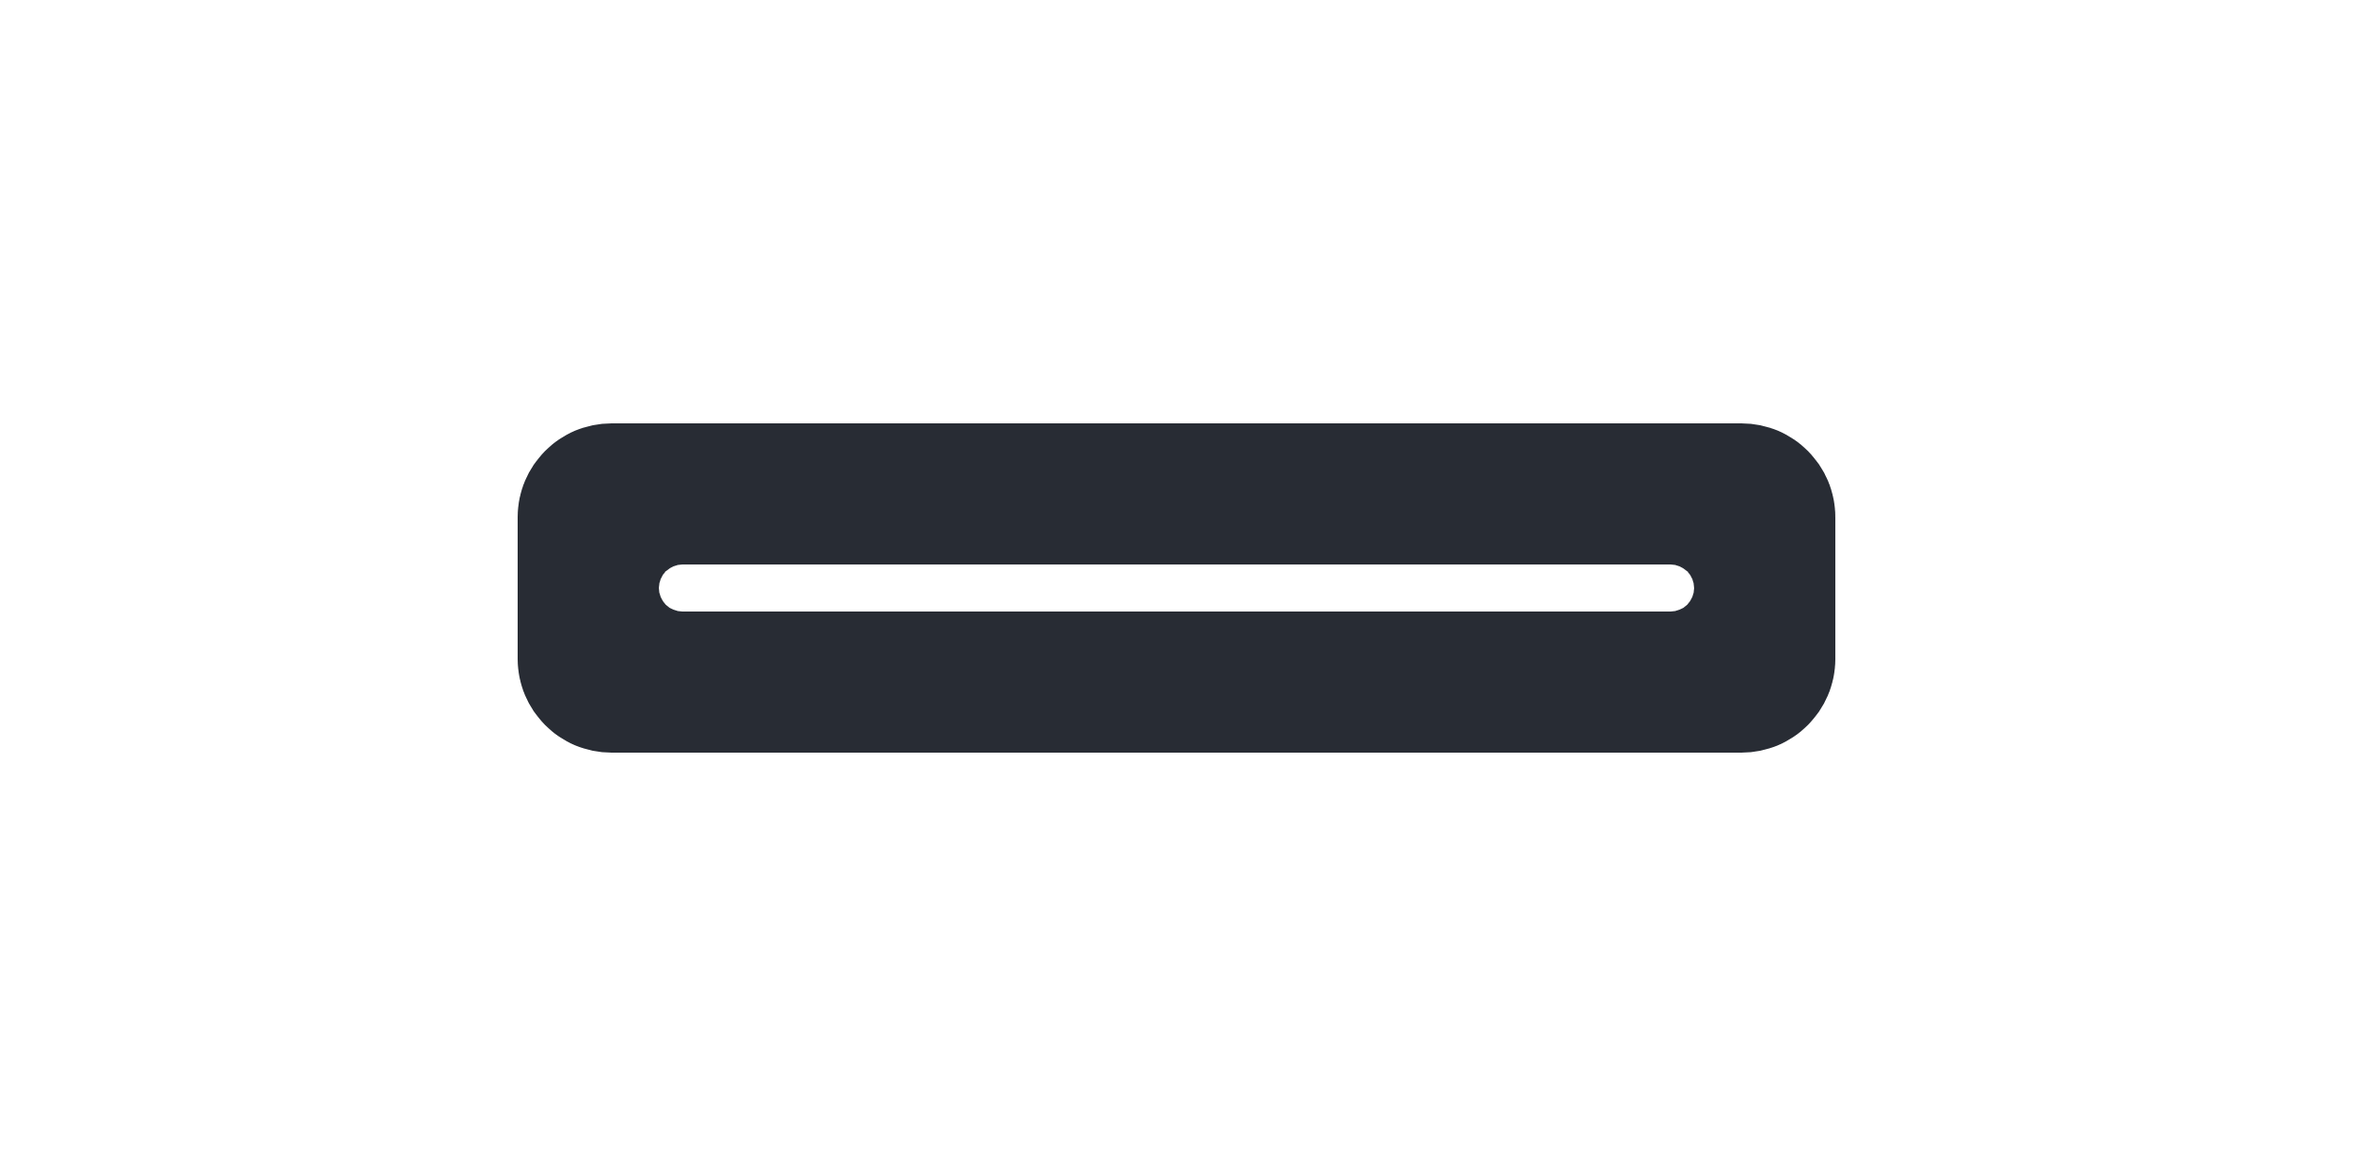
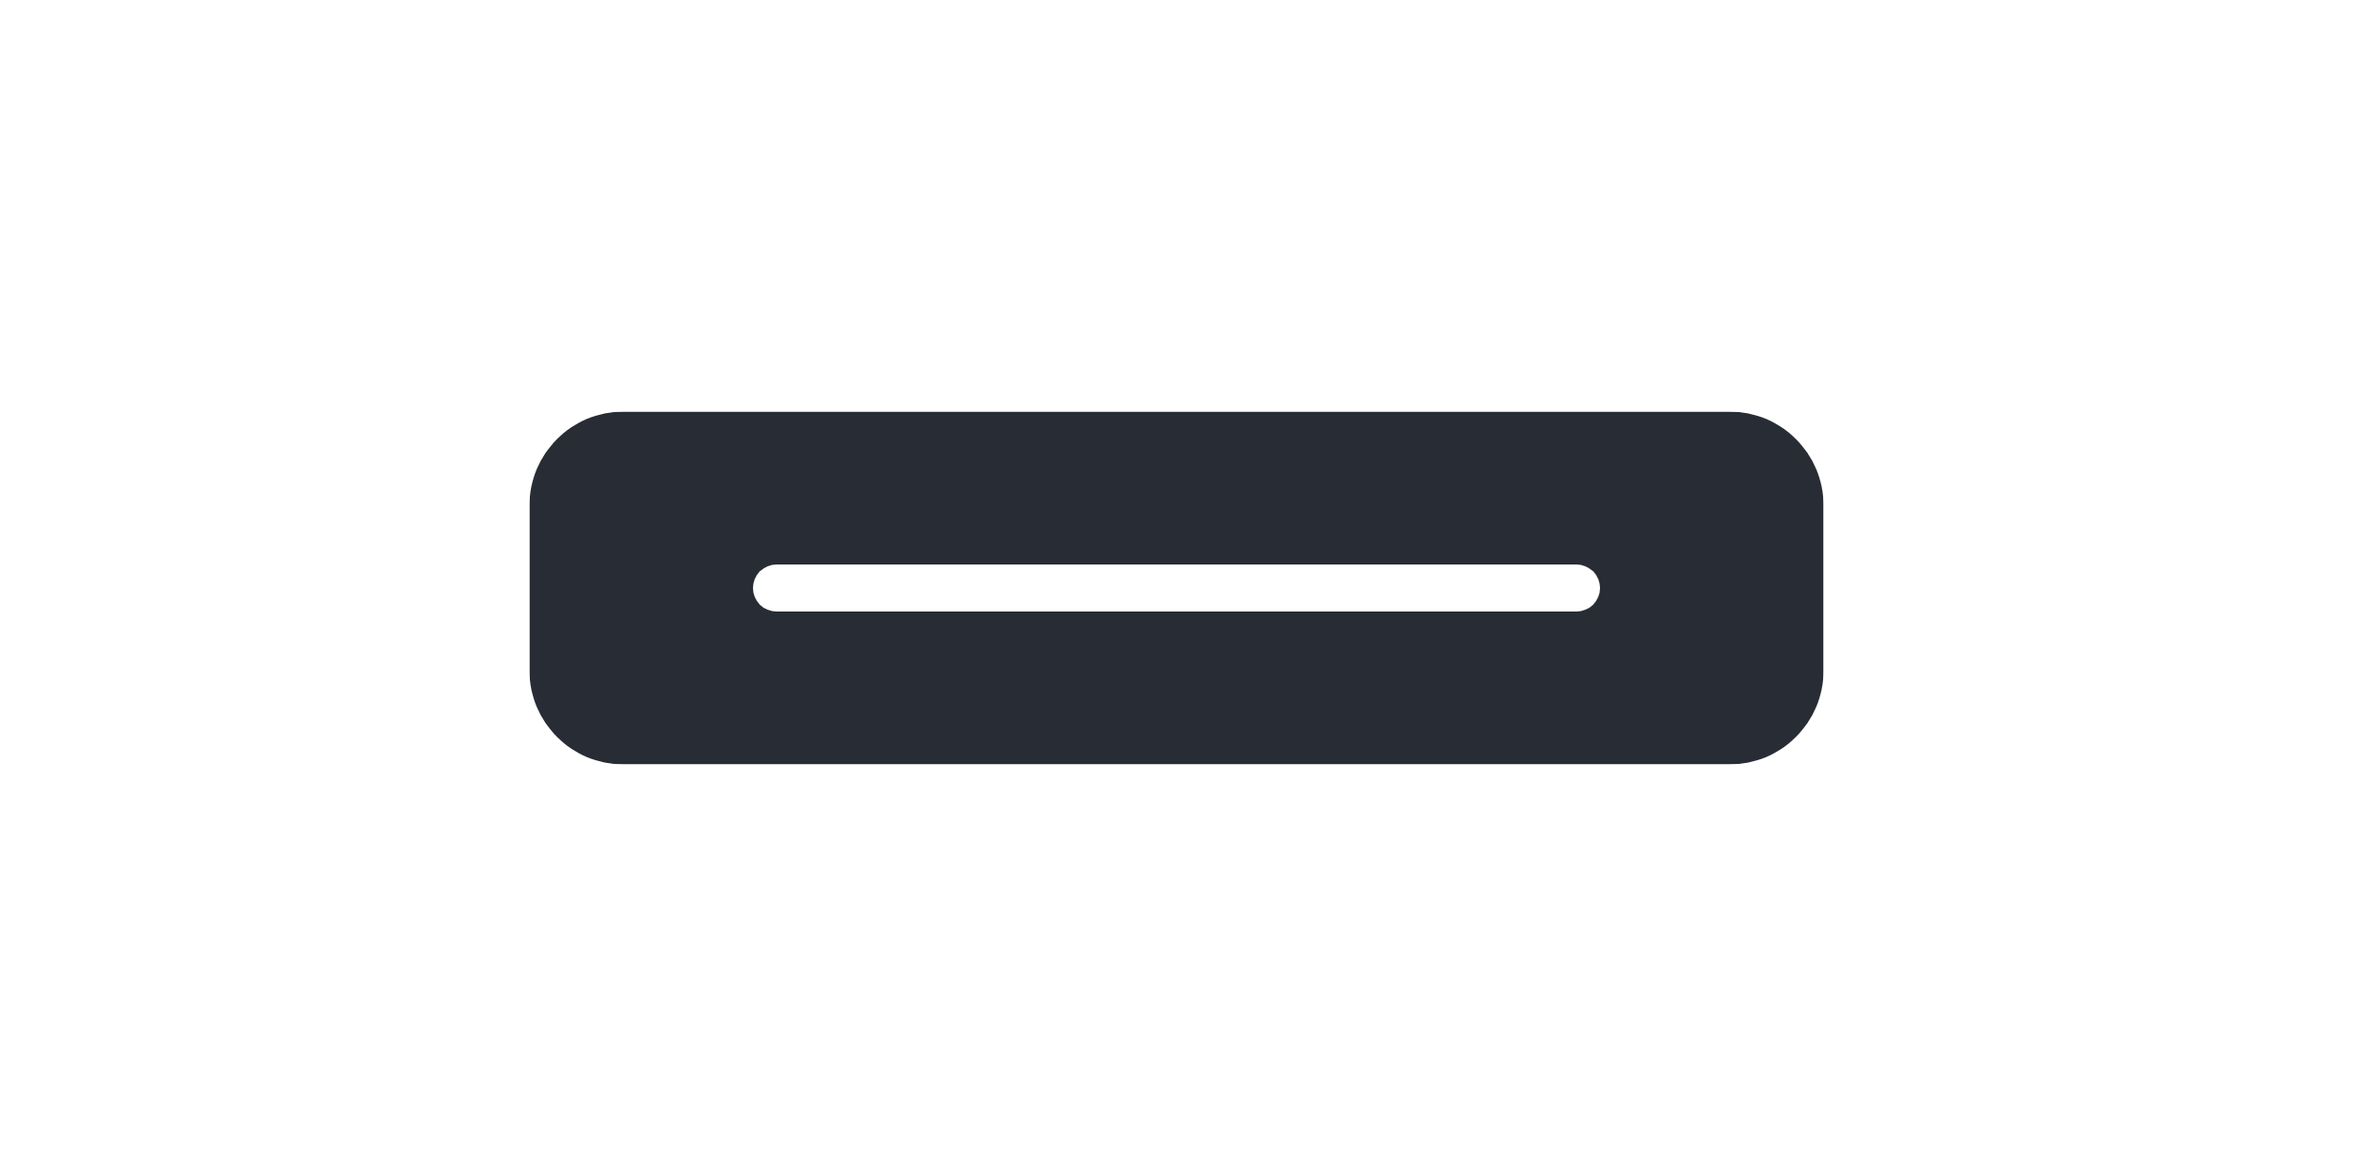
Update Button Docment

diff --git a/src/app/components/button/page.tsx b/src/app/components/button/page.tsx
@@ -4,111 +4,183 @@ import Button from '@/components/Button';
 import Header from '@/components/Header';
 import Card from '@/components/Card';
 import Code from '@/components/Code';
+import Body from '@/components/Body';
+import PreviewAreaH from '@/components/PreviewAreaH';
 
 const ButtonComponents = () => {
-    const [loading, setLoading] = useState(false);
-
-    const handleClick = () => {
-        setLoading(true);
-        setTimeout(() => {
-            setLoading(false);
-        }, 2000);
-    };
+    const [language, setLanguage] = useState<'en' | 'jp'>('en');
 
     return (
-        <div className="w-[80%] mx-auto">
+        <Body>
             <Header />
-            <div className="mb-10 text-center flex flex-col items-center justify-center">
+            <div className="mb-10 text-center flex flex-col items-center">
                 <img src="/chubbs/6.svg" className="w-80" />
                 <h1 className="text-xl font-bold mt-[-50px]">Button</h1>
+                <div className="mt-5">
+                    <button
+                        className={`px-4 py-2 font-bold rounded-l-md ${language === 'en' ? 'bg-[#2da0ff] text-white' : 'bg-gray-100'}`}
+                        onClick={() => setLanguage('en')}
+                    >
+                        English
+                    </button>
+                    <button
+                        className={`px-4 py-2 font-bold rounded-r-md ${language === 'jp' ? 'bg-[#2da0ff] text-white' : 'bg-gray-100'}`}
+                        onClick={() => setLanguage('jp')}
+                    >
+                        日本語
+                    </button>
+                </div>
             </div>
             <div className="space-y-5">
-                {/* Usage Section */}
-                <Card title="Usage">
-                    <p>This is a basic usage example of the Button component.</p>
-                    <Button colorScheme="blue">
-                        Button
-                    </Button>
-                    <Code language='html'>
-{`<Button colorScheme="blue">
-    Button
-</Button>`}
-                    </Code>
-                </Card>
-
-                {/* Loading State Section */}
-                <Card title="Loading State">
-                    <p>This example shows the Button component in a loading state.</p>
-                    <Button colorScheme="blue" onClick={handleClick} loading={loading}>
-                        Load Data
-                    </Button>
-                    <Code language="javascript">
-{`const [loading, setLoading] = useState(false);
-
-const handleClick = () => {
-    setLoading(true);
-    setTimeout(() => {
-        setLoading(false);
-    }, 2000);
-};
-
-// In the JSX:
-<Button colorScheme="blue" onClick={handleClick} loading={loading}>
-    Load Data
-</Button>`}
-                    </Code>
-                </Card>
-
-                {/* Disabled State Section */}
-                <Card title="Disabled State">
-                    <p>This example shows the Button component in a disabled state.</p>
-                    <Button colorScheme="blue" disabled={true}>
-                        Disabled Button
-                    </Button>
-                    <Code language="html">
-{`<Button colorScheme="blue" disabled={true}>
-    Disabled Button
-</Button>`}
-                    </Code>
-                </Card>
-
-                {/* Color Schemes Section */}
-                <Card title="Color Schemes">
-                    <p>This example shows the Button component with different color schemes.</p>
-                    <div className="flex space-x-2.5 w-full overflow-x-auto">
-                        <Button colorScheme="red">Red</Button>
-                        <Button colorScheme="orange">Orange</Button>
-                        <Button colorScheme="yellow">Yellow</Button>
-                        <Button colorScheme="green">Green</Button>
-                        <Button colorScheme="blue">Blue</Button>
-                        <Button colorScheme="purple">Purple</Button>
-                        <Button colorScheme="gray">Gray</Button>
-                    </div>
-                    <Code language="html">
-{`<Button colorScheme="red">Red</Button>
-<Button colorScheme="orange">Orange</Button>
-<Button colorScheme="yellow">Yellow</Button>
-<Button colorScheme="green">Green</Button>
-<Button colorScheme="blue">Blue</Button>
-<Button colorScheme="purple">Purple</Button>
-<Button colorScheme="gray">Gray</Button>`}
-                    </Code>
-                </Card>
-
-                {/* Click Event Section */}
-                <Card title="Click Event">
-                    <p>This example shows the Button component handling click events.</p>
-                    <Button colorScheme="blue" onClick={() => alert('Button Clicked!')}>
-                        Click Me
-                    </Button>
-                    <Code language="html">
-{`<Button colorScheme="blue" onClick={() => alert('Button Clicked!')}>
-    Click Me
-</Button>`}
-                    </Code>
-                </Card>
+                {language === 'en' ? (
+                    <>
+                        <Card title="Overview">
+                            Button is a clickable element that allows users to perform actions component.
+                        </Card>
+                        <Card title="Import">
+                            <Code language='tsx'>{`import { Button } from "css-materials";`}</Code>
+                        </Card>
+                        <Card title="Usage">
+                            <PreviewAreaH>
+                                <Button>Button</Button>
+                            </PreviewAreaH>
+                            <Code language='html'>{`<Button>Button</Button>`}</Code>
+                        </Card>
+                        <Card title="Change Size">
+                            <p>By default, the <code>medium</code> size is applied.</p>
+                            <PreviewAreaH>
+                                <Button size="small">Small</Button>
+                                <Button size="medium">Medium</Button>
+                                <Button size="large">Large</Button>
+                            </PreviewAreaH>
+                            <Code language='html'>
+{`<Button size="small">Small</Button>
+<Button size="medium">Medium</Button>
+<Button size="large">Large</Button>`}
+                            </Code>
+                        </Card>
+                        <Card title="形状を変更する">
+                            <p>デフォルトでは<code>rounded</code>が適用されています。</p>
+                            <PreviewAreaH>
+                                <Button shape="square">四角ボタン</Button>
+                                <Button shape="rounded">角丸ボタン</Button>
+                                <Button shape="circular">円形ボタン</Button>
+                            </PreviewAreaH>
+                            <Code language='html'>
+{`<Button shape="square">四角ボタン</Button>
+<Button shape="rounded">角丸ボタン</Button>
+<Button shape="circular">円形ボタン</Button>`}
+                            </Code>
+                        </Card>
+                        <Card title="カラースキームを変更する">
+                            <p>デフォルトでは<code>blue</code>が適用されています。</p>
+                            <PreviewAreaH>
+                                <Button colorScheme="red">まめだまし</Button>
+                                <Button colorScheme="orange">まめだまし</Button>
+                                <Button colorScheme="yellow">まめだまし</Button>
+                                <Button colorScheme="green">まめだまし</Button>
+                                <Button colorScheme="blue">まめだまし</Button>
+                                <Button colorScheme="purple">まめだまし</Button>
+                                <Button colorScheme="gray">まめだまし</Button>
+                            </PreviewAreaH>
+                            <Code language='html'>
+{`<Button colorScheme="red">まめだまし</Button>
+<Button colorScheme="orange">まめだまし</Button>
+<Button colorScheme="yellow">まめだまし</Button>
+<Button colorScheme="green">まめだまし</Button>
+<Button colorScheme="blue">まめだまし</Button>
+<Button colorScheme="purple">まめだまし</Button>
+<Button colorScheme="gray">まめだまし</Button>`}
+                            </Code>
+                        </Card>
+                        <Card title="状態を変更する">
+                            <p>状態を変更するには<code>disabled</code>と<code>loading</code>のそれぞれを<code>true</code>にします。</p>
+                            <div className="flex border p-2.5 rounded-md space-x-2.5 overflow-x-auto whitespace-nowrap">
+                                <Button disabled>無効</Button>
+                                <Button loading>読み込み</Button>
+                            </div>
+                            <Code language='html'>
+{`<Button disabled>無効</Button>
+<Button loading>読み込み</Button>`}
+                            </Code>
+                        </Card>
+                    </>
+                ) : (
+                    <>
+                        <Card title="概要">
+                            Buttonは、ユーザーがアクションを実行するためのクリック可能な要素コンポーネントです。
+                        </Card>
+                        <Card title="インポート">
+                            <Code language='tsx'>{`import { Button } from "css-materials";`}</Code>
+                        </Card>
+                        <Card title="使い方">
+                            <PreviewAreaH>
+                                <Button>ねこむすび</Button>
+                            </PreviewAreaH>
+                            <Code language='html'>{`<Button>ねこむすび</Button>`}</Code>
+                        </Card>
+                        <Card title="サイズを変更する">
+                            <p>デフォルトでは<code>medium</code>が適用されています。</p>
+                            <PreviewAreaH>
+                                <Button size="small">いぬだわら</Button>
+                                <Button size="medium">いぬだわら</Button>
+                                <Button size="large">いぬだわら</Button>
+                            </PreviewAreaH>
+                            <Code language='html'>
+{`<Button size="small">いぬだわら</Button>
+<Button size="medium">いぬだわら</Button>
+<Button size="large">いぬだわら</Button>`}
+                            </Code>
+                        </Card>
+                        <Card title="形状を変更する">
+                            <p>デフォルトでは<code>rounded</code>が適用されています。</p>
+                            <PreviewAreaH>
+                                <Button shape="square">四角ボタン</Button>
+                                <Button shape="rounded">角丸ボタン</Button>
+                                <Button shape="circular">円形ボタン</Button>
+                            </PreviewAreaH>
+                            <Code language='html'>
+{`<Button shape="square">四角ボタン</Button>
+<Button shape="rounded">角丸ボタン</Button>
+<Button shape="circular">円形ボタン</Button>`}
+                            </Code>
+                        </Card>
+                        <Card title="カラースキームを変更する">
+                            <p>デフォルトでは<code>blue</code>が適用されています。</p>
+                            <PreviewAreaH>
+                                <Button colorScheme="red">まめだまし</Button>
+                                <Button colorScheme="orange">まめだまし</Button>
+                                <Button colorScheme="yellow">まめだまし</Button>
+                                <Button colorScheme="green">まめだまし</Button>
+                                <Button colorScheme="blue">まめだまし</Button>
+                                <Button colorScheme="purple">まめだまし</Button>
+                                <Button colorScheme="gray">まめだまし</Button>
+                            </PreviewAreaH>
+                            <Code language='html'>
+{`<Button colorScheme="red">まめだまし</Button>
+<Button colorScheme="orange">まめだまし</Button>
+<Button colorScheme="yellow">まめだまし</Button>
+<Button colorScheme="green">まめだまし</Button>
+<Button colorScheme="blue">まめだまし</Button>
+<Button colorScheme="purple">まめだまし</Button>
+<Button colorScheme="gray">まめだまし</Button>`}
+                            </Code>
+                        </Card>
+                        <Card title="状態を変更する">
+                            <p>状態を変更するには<code>disabled</code>と<code>loading</code>のそれぞれを<code>true</code>にします。</p>
+                            <div className="flex border p-2.5 rounded-md space-x-2.5 overflow-x-auto whitespace-nowrap">
+                                <Button disabled>無効</Button>
+                                <Button loading>読み込み</Button>
+                            </div>
+                            <Code language='html'>
+{`<Button disabled>無効</Button>
+<Button loading>読み込み</Button>`}
+                            </Code>
+                        </Card>
+                    </>
+                )}
             </div>
-        </div>
+        </Body>
     );
 };
 

diff --git a/src/components/Button.tsx b/src/components/Button.tsx
@@ -2,18 +2,32 @@ import React from 'react';
 import Spinner from './Spinner';
 
 type ButtonProps = {
-    colorScheme: string;
-    children: React.ReactNode;
+    colorScheme?: string;
+    children?: React.ReactNode;
     onClick?: () => void;
     className?: string;
     loading?: boolean;
     disabled?: boolean;
+    size?: 'small' | 'medium' | 'large';
+    shape?: 'rounded' | 'square' | 'circular';
 };
 
-const Button: React.FC<ButtonProps> = ({ colorScheme, children, onClick, className, loading = false, disabled = false }) => {
+const Button: React.FC<ButtonProps> = ({
+    colorScheme = 'blue',
+    children,
+    onClick,
+    className = '',
+    loading = false,
+    disabled = false,
+    size = 'medium',
+    shape = 'rounded'
+}) => {
+    const sizeClass = size ? `button-${size}` : '';
+    const shapeClass = shape ? `button-${shape}` : '';
+
     return (
         <button
-            className={`${colorScheme}-button ${className} ${loading || disabled ? 'disabled-button' : ''}`}
+            className={`button ${colorScheme}-button ${className} ${sizeClass} ${shapeClass} ${loading || disabled ? 'disabled-button' : ''}`}
             onClick={onClick}
             disabled={loading || disabled}
         >

diff --git a/src/app/components/alert-dialog/page.tsx b/src/app/components/alert-dialog/page.tsx
@@ -37,19 +37,18 @@ const AlertDialogComponents = () => {
                         title="Alert"
                         message="This is an alert message."
                     />
-                    <Code language='typescript'>
+                    <Code language='tsx'>
 {`import React, { useState } from 'react';
-import Button from '@/components/Button';
-import AlertDialog from '@/components/AlertDialog';
+import { Button, AlertDialog } from "css-materials";
 
-const Example = () => {
-    const [isAlertDialogVisible, setAlertDialogVisible] = useState(false);
+const Example: React.FC = () => {
+    const [isAlertDialogVisible, setAlertDialogVisible] = useState<boolean>(false);
 
-    const handleOpenAlertDialog = () => {
+    const handleOpenAlertDialog = (): void => {
         setAlertDialogVisible(true);
     };
 
-    const handleCloseAlertDialog = () => {
+    const handleCloseAlertDialog = (): void => {
         setAlertDialogVisible(false);
     };
 

diff --git a/src/app/globals.css b/src/app/globals.css
@@ -3,13 +3,33 @@
 @tailwind utilities;
 
 /* button */
-.orange-button, .blue-button, .gray-button, .purple-button, .red-button, .yellow-button, .green-button {
+.button {
   padding: 10px 17.5px;
   border-radius: 99em;
   font-weight: bold;
   display: inline-flex;
   align-items: center;
+  outline: none;
 }
+.button-small {
+  padding: 5px 10px;
+}
+.button-medium {
+  padding: 10px 20px;
+}
+.button-large {
+  padding: 15px 30px;
+}
+.button-rounded {
+  border-radius: 15px;
+}
+.button-square {
+  border-radius: 5px;
+}
+.button-circular {
+  border-radius: 99em;
+}
+/* Color schemes */
 .orange-button {
   background-color: rgb(249, 115, 22);
   color: #FFF;
@@ -38,6 +58,7 @@
   background-color: #22c55e;
   color: #FFF;
 }
+/* Disabled state */
 .disabled-button {
   opacity: 0.5;
   cursor: not-allowed;

diff --git a/src/components/PreviewAreaH.tsx b/src/components/PreviewAreaH.tsx
@@ -1,0 +1,13 @@
+import React, { ReactNode } from "react";
+
+interface PreviewAreaProps {
+    children: ReactNode;
+}
+
+export default function PreviewArea({ children }: PreviewAreaProps) {
+    return (
+        <div className="border p-2.5 rounded-md space-x-2.5 overflow-x-auto whitespace-nowrap">
+            {children}
+        </div>
+    );
+}
